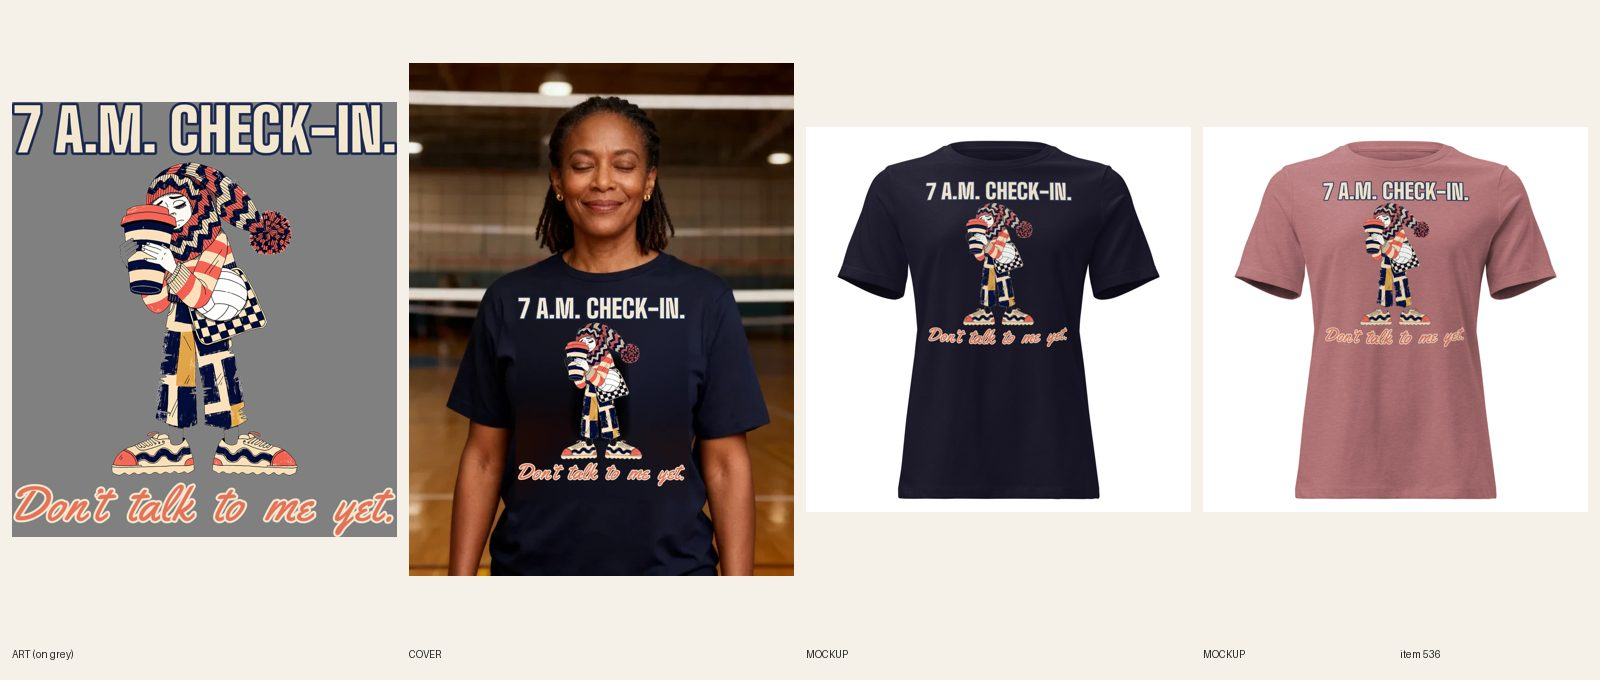
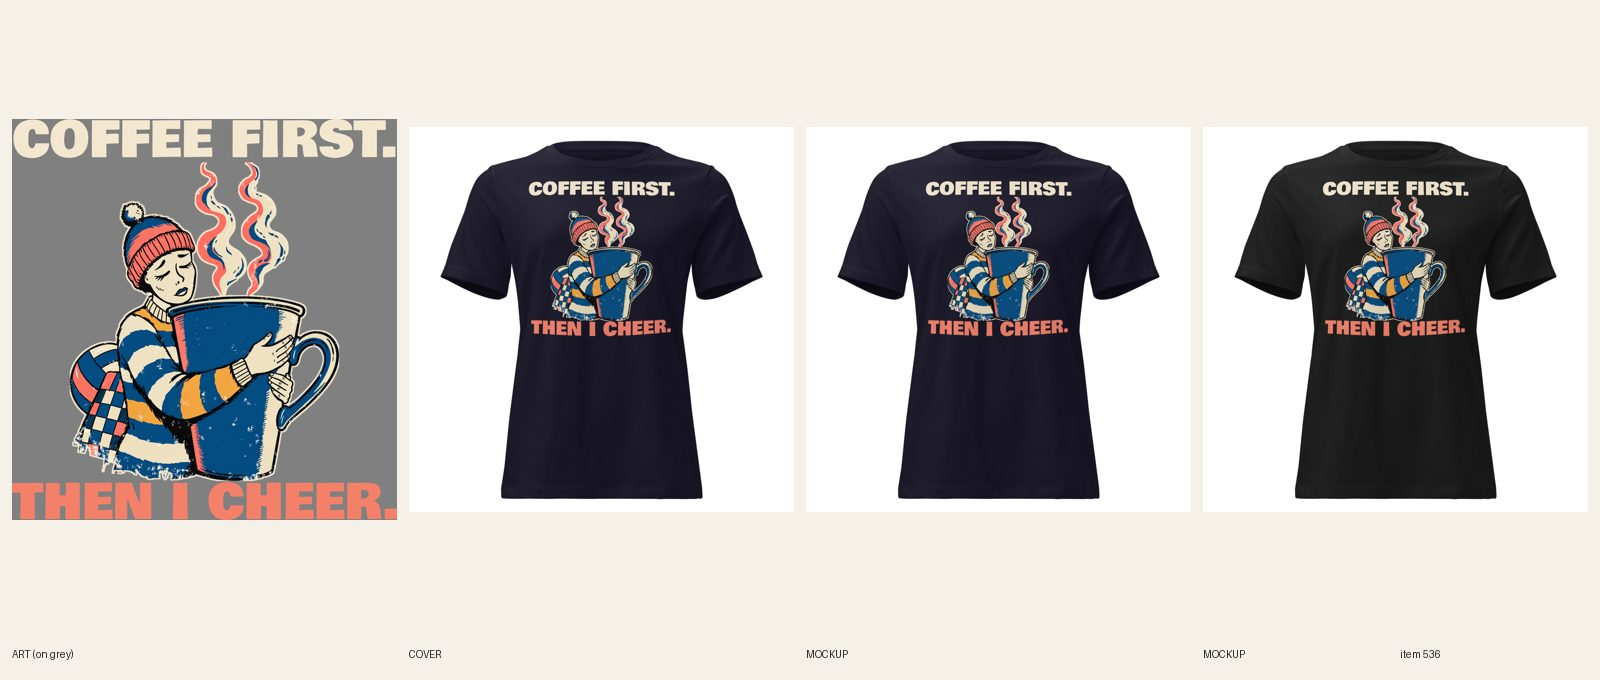
[E] review 536 redid #536 Women's Volleyball Mom tee (line + type: COFFEE FIRST. THEN I CHEER., new coffee-hugging mom art, cream file on 5 dark colors + dark-ink file on Heather Mauve, 36/36 synced, copy updated, plain product shot). REVIEW. fal $0.04.

diff --git a/docs/pipeline/536-volleyball-mom-tee-seven-am-check-in.md b/docs/pipeline/536-volleyball-mom-tee-seven-am-check-in.md
@@ -1,4 +1,4 @@
-status: REDO
+status: REVIEW
 lane: E
 type: new
 id: 536
@@ -34,3 +34,4 @@ kd: 47
 - 2026-10-18 09:43 UTC builder [E]: sync 36/36 confirmed. REVIEW.
 - 2026-10-18 10:18 UTC director: LIVE. Script line spaced, door erased, cover composite clean. Copy fix in Shopify: Story still described 'the gym doors behind her' (erased, R8.3) and 'perfect sideline shirt'; SEO title trimmed to 60. ACTIVE + Online Store/Headless/Google & YouTube; audit --handle PASS 0 warn.
 - 2026-10-18 17:22 UTC director: QUALITY RESET grade C (new line + type), REDO. The product stays ACTIVE (same handle, URL, title keyword). 1. Line (R3.12, quality-reset 'Lines'): "7 A.M. CHECK-IN. / Don't talk to me yet.": Stock don't-talk-to-me coffee trope; thin script under art. Write 5 candidates, keep the one a stranger laughs at in 3 seconds without backstory; kill lines that only describe the picture; if none of the 5 is funny, PARK it. 2. Quality reset type bar (docs/backlog/quality-reset.md, 'The new bar'): headline at least 90% of the art width, heavy, colors pulled from the art; second line at least 45% of the headline's height, never a thin script on a dark or mid garment; use the lettering as a shape (arch, stacked lockup, words breaking into the art), not a plain bar above and a script line below; no font used on more than 1 in 6 of the last 30 designs. 3. Keep the art if it carries the new line, else one new illustration (R4/R5). New print means a new cover per R6.10, copy line one rewritten for the new joke (R8.3), and a fresh review sheet (R7.7). While quality-reset.md says PAUSED, only lane A builds, and only the samples step 2 names.
+- 2026-10-20 05:58 UTC builder [E]: REDO 536 (C grade, line + type) done on the existing product (stays ACTIVE, handle unchanged). 5 candidates: "COFFEE FIRST. THEN I CHEER."; "Tournament Morning: Coffee Or Consequences"; "7 A.M. Check-In. Don't Talk To Me Yet." (old); "I'm Here. Don't Talk To Me."; "Already Loud At 7 A.M.". Kept COFFEE FIRST. / THEN I CHEER. (3 seconds, every volleyball mom). One new Recraft call ($0.04): sleepy mom in a pom-pom hat hugging a giant mug, volleyball and seat cushion, no words. Bowlby One full print width. Dark colors (Navy, Black, Heather Navy, Dark Grey Heather, Maroon): cream + coral, thin cream halo, file 1090185423 family. Heather Mauve: the coral lettering was weak on the mauve mockup, so it has its own dark-ink file 1090187191 (plum + berry, no halo): light file logged for Mauve. FW 1500 TOP 75, 36/36 synced on the right file per color (the Mauve relink raced the main sync, so I reran it alone after the main sync ended and re-verified every color). 6 fronts replaced in place, alts updated, title/SEO/copy/FAQs rewritten, ink named from the mockups. Cover: handle added to retired-covers.json (plain product shot). Phone-size read OK on all six. audit --handle PASS 0 warn; astro build OK. fal $0.04. Sheet docs/review/536.jpg.

diff --git a/docs/intake-log.md b/docs/intake-log.md
@@ -10,6 +10,7 @@ RUNNING lane E since 2026-10-20 05:16 UTC
 2026-10-20 05:32 UTC — [E] Builder run: redid #388 Women's Christmas crewneck again (every calendar day box now filled: cream square, red X, so it reads booked; line kept SORRY, I'M BOOKED / TILL JANUARY.; Navy + Sand files, 12/12 synced). REVIEW. fal $0.
 2026-10-20 05:44 UTC — [A] Builder run: redid #319 Women's Christmas Tied Up for the Holidays tee (line+type: I'M THE GIFT. / NO RETURNS., same tartan bow art, Alfa Slab full width, file 1090185051, 30/30 relinked, 5 fronts replaced in place, copy updated, plain product shot). REVIEW. fal $0.
 2026-10-20 05:45 UTC — [B] Builder run: redid #354 Unisex Fishing zip hoodie (line + type: IT WAS / THIS BIG., new leaping-bass art, Bowlby One, Ash + Carolina Blue dark-ink file, 12/12 synced). REVIEW. fal $0.08.
+2026-10-20 05:58 UTC — [E] Builder run: redid #536 Women's Volleyball Mom tee (line + type: COFFEE FIRST. THEN I CHEER., new coffee-hugging mom art, cream file on 5 dark colors + dark-ink file on Heather Mauve, 36/36 synced, copy updated, plain product shot). REVIEW. fal $0.04.
 2026-10-20 05:16 UTC — [D] Director run (RESUMED). LIVE 6 (cap): #649 #205 #217 #219 #326 #356 (approved earlier and held; #649 set ACTIVE + published on Online Store, Headless, Google & YouTube; audit --handle PASS 0 warn each). Reviewed 20 new redo sheets side by side with 493 and 483: approved and held 10 (#382 #459 #499 #503 #514 #533 #563 #620 #622 #637); REDO 10: #280 #318 #380 #396 #513 #519 (joke line narrower than headline, R3.7.8, 10th hit in two runs: added builder card 7h, log both widths), #257 #258 (R3.13 template line), #448 #495 (R3.1 sound-alike puns). Inbox: nothing new since the Black Friday note (Sam already asked about the deal and set discount). READY: A 13, B 12, C 17, E 12, no new briefs needed. No Telegram (digest not due, nothing new for Sam). Held next, in order: #358 #650, then the 15 from 04:16, then the 10 above, then the 31 add-ons. Lock released.
 2026-10-20 05:24 UTC — [E] Builder run: redid #366 Women's Beach hoodie again (new line NOT CRABBY. / JUST OFF THE CLOCK., second line at full headline width, same crab art, Fraunces; Navy + Dust light file, 12/12 synced). REVIEW. fal $0.
 RUNNING director since 2026-10-20 05:13 UTC
